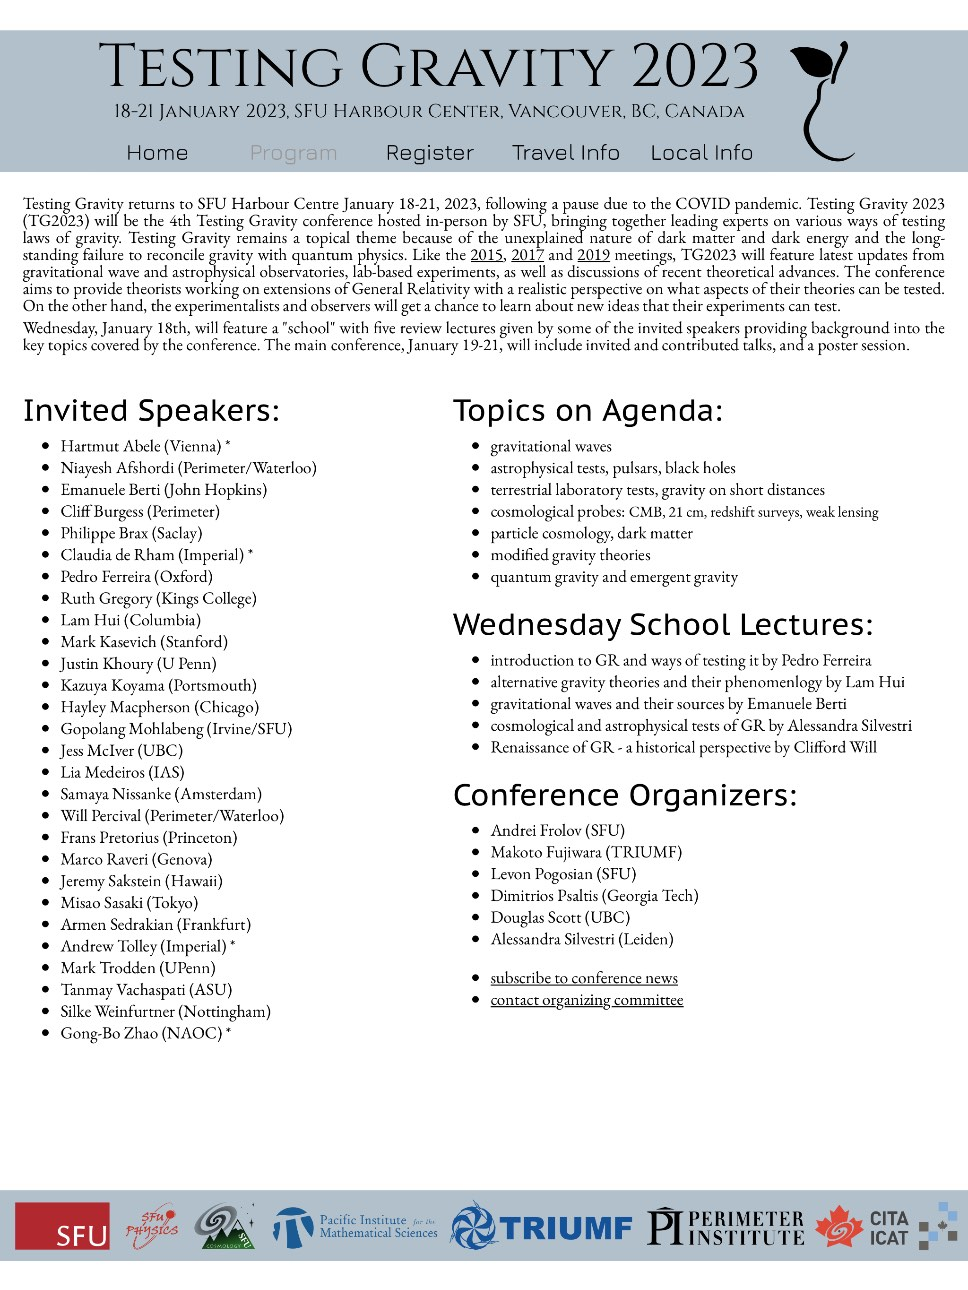
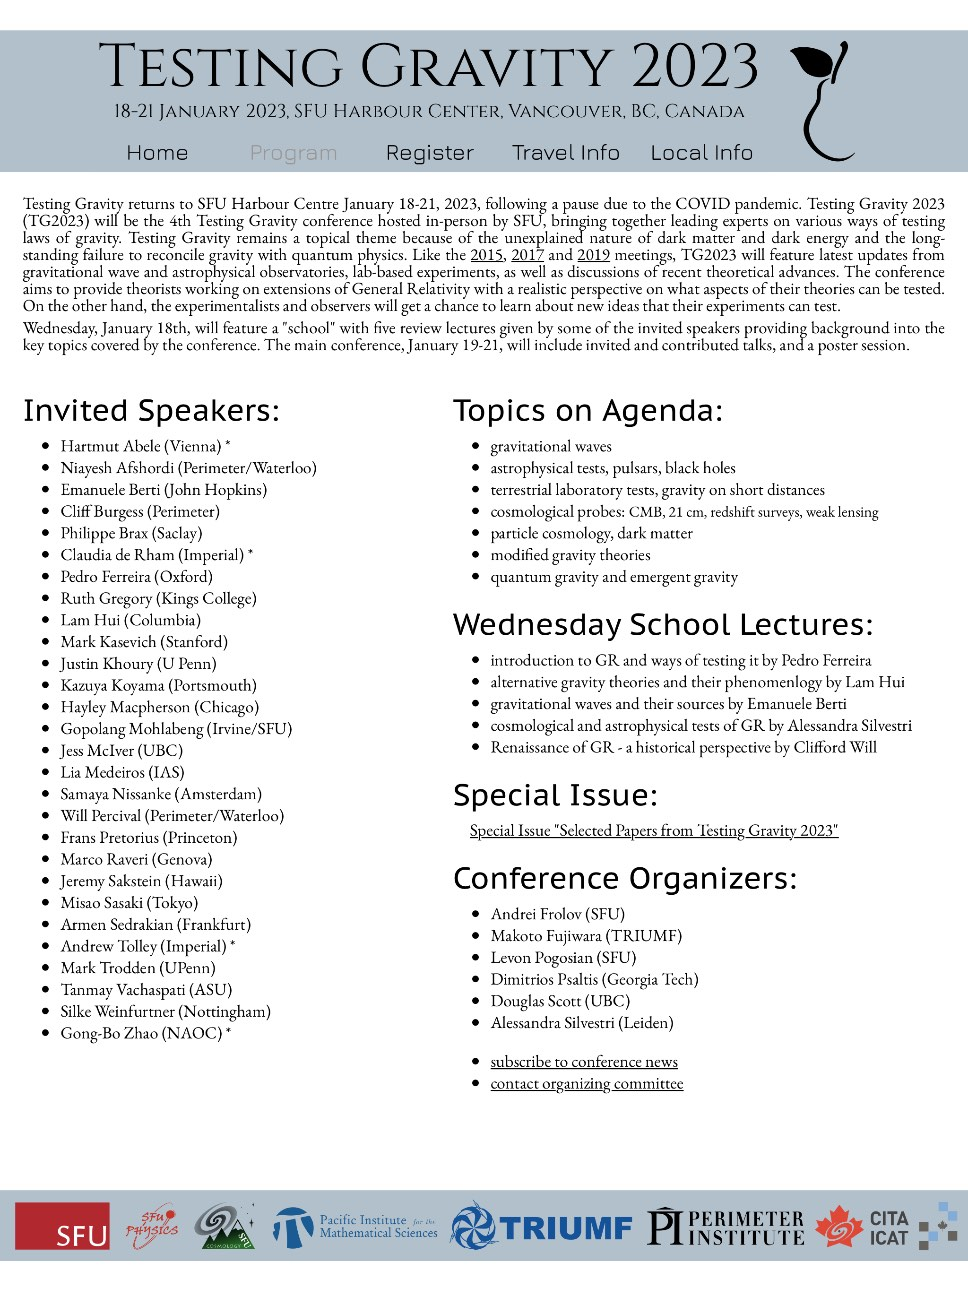
Added link to the special issue

Changed region(s): [[0.4649, 0.5891, 0.8678, 0.8682]]

diff --git a/content/organizers.html b/content/organizers.html
@@ -28,6 +28,12 @@ ul { margin-top: 0.3em !important; }
         <li>"Renaissance of GR - a historical perspective" by Clifford Will
 </ul></font>
 
+<font face="PT Sans Caption" size="6">Special Issue:
+</font>
+<font face="EB Garamond" size="4"><ul style="list-style: none; padding-left: 1em;">
+        <li><a href="https://www.mdpi.com/journal/particles/special_issues/U7YD8649D1">Special Issue "Selected Papers from Testing Gravity 2023"</a>
+</ul></font>
+
 <!--
 <font face="PT Sans Caption" size="6">Conference Program:
 </font>
